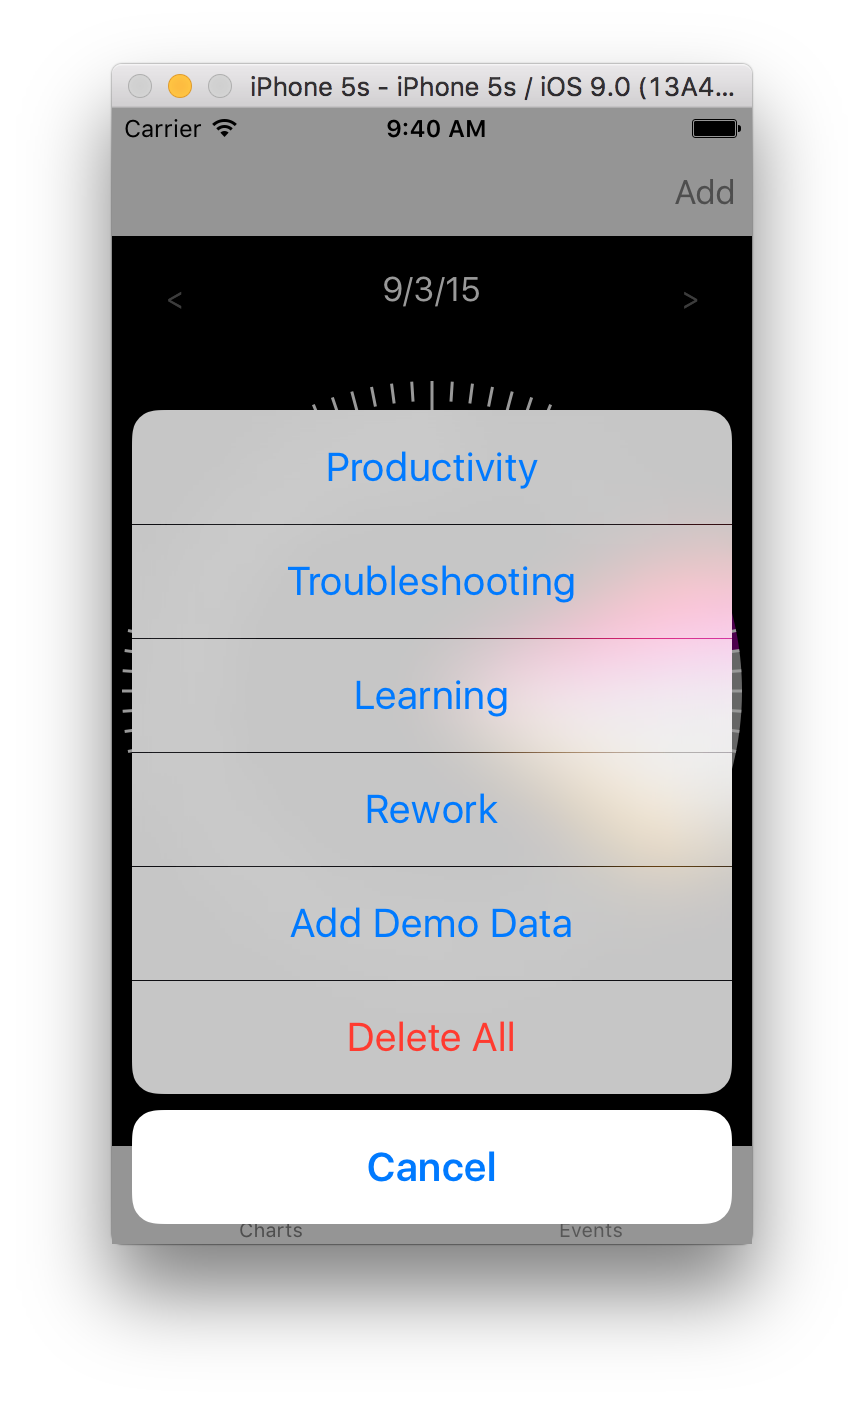
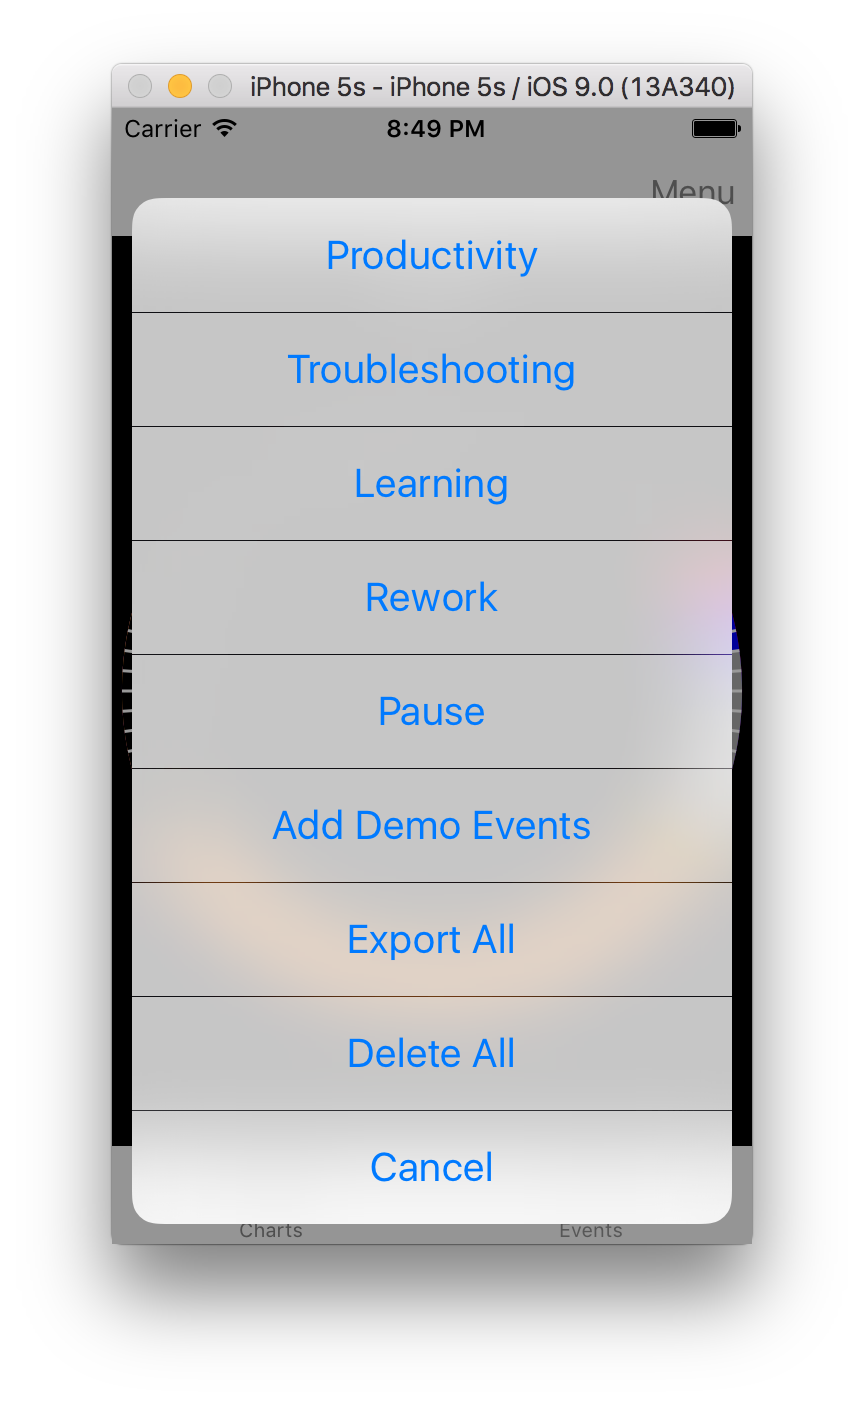
changed text on the menu button and updated screenshots

diff --git a/IdeaFlow/TabBarController.swift b/IdeaFlow/TabBarController.swift
@@ -21,7 +21,7 @@ class TabBarController : UITabBarController
         
         self.menuController = MenuController(presenter: self)
         
-        let button = UIBarButtonItem(title: "Add", style: UIBarButtonItemStyle.Plain, target: self, action: Selector("addButtonTapped"))
+        let button = UIBarButtonItem(title: "Menu", style: UIBarButtonItemStyle.Plain, target: self, action: Selector("menuButtonTapped"))
         self.navigationItem.setRightBarButtonItem(button, animated: false)
         
         _observeNotifications()
@@ -91,7 +91,7 @@ class TabBarController : UITabBarController
     }
     
     
-    func addButtonTapped()
+    func menuButtonTapped()
     {
         menuController?.presentMenu()
     }
